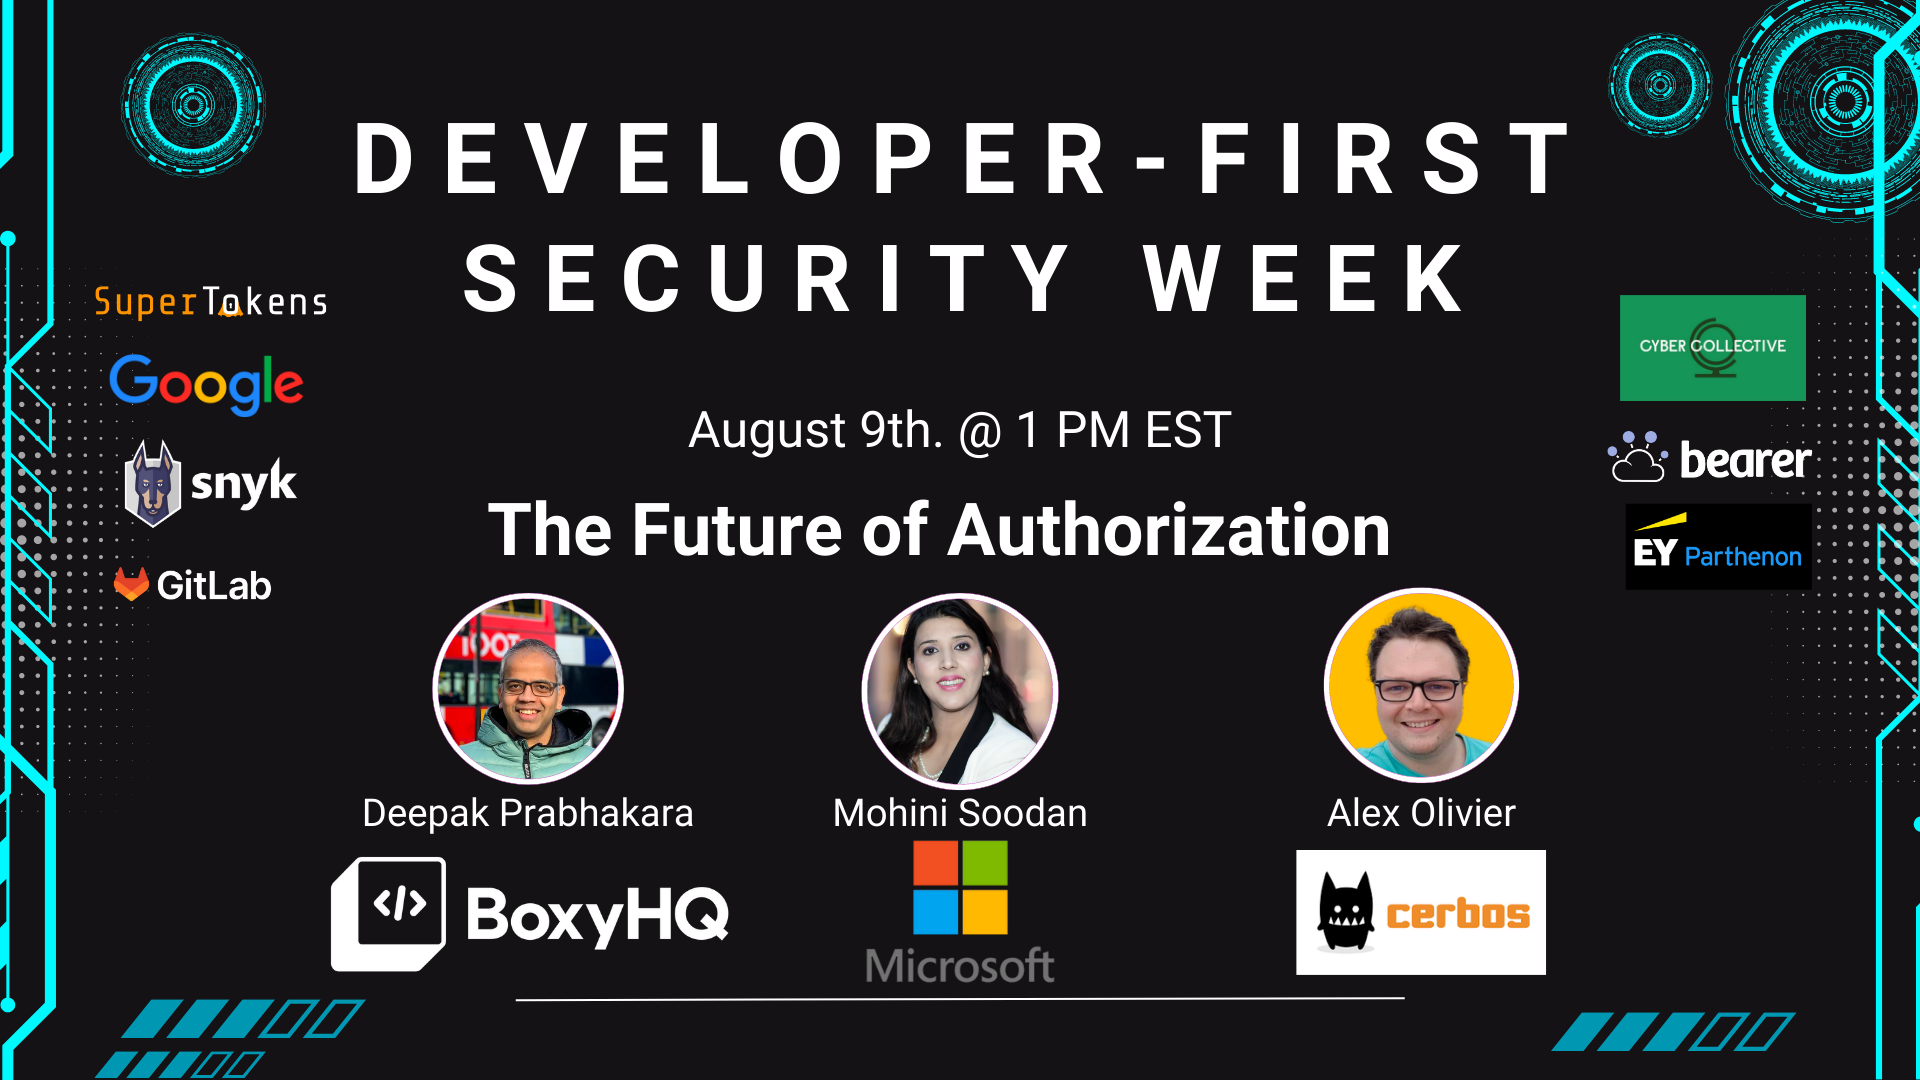
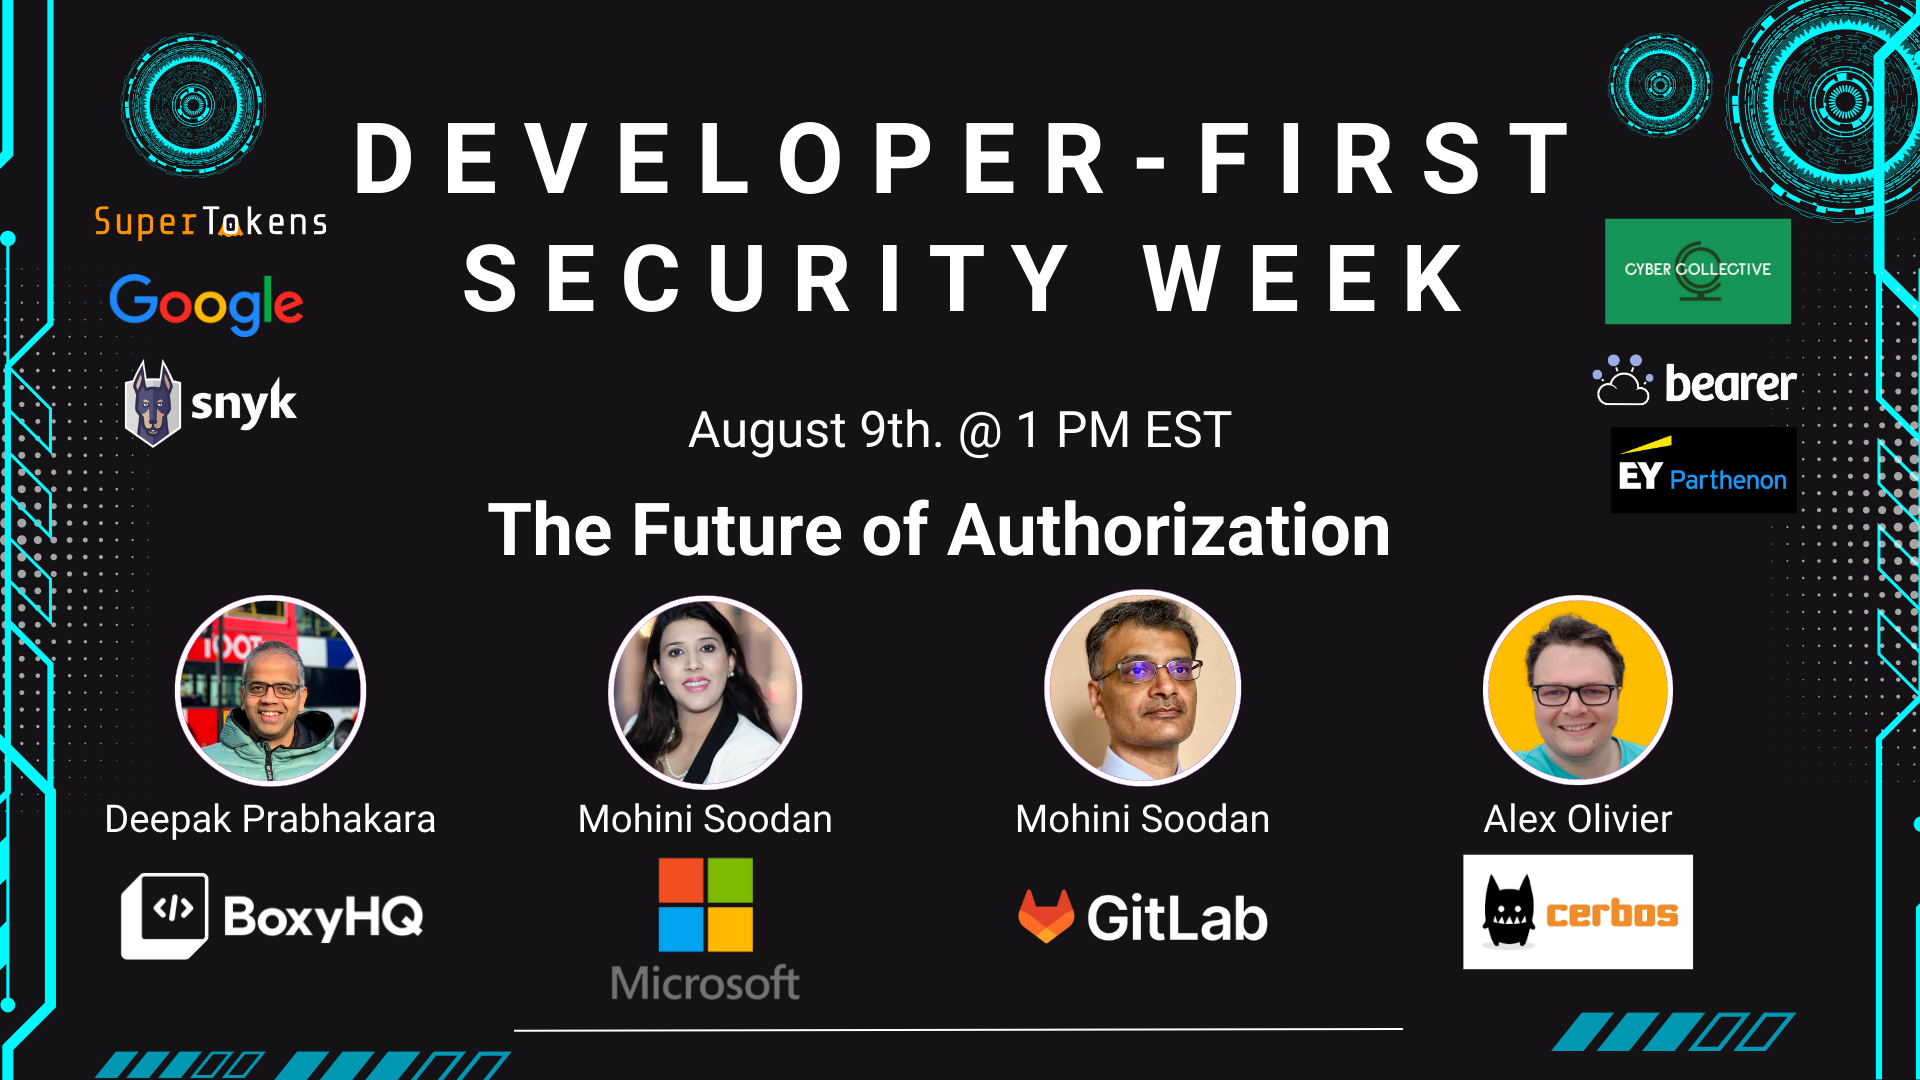
update title flyer and event pages

diff --git a/blog/2023-8-4-the-developer-first-security-week-a-paradigm-shift-in-prioritizing-code-security.md b/blog/2023-8-4-the-developer-first-security-week-a-paradigm-shift-in-prioritizing-code-security.md
@@ -12,7 +12,7 @@ tags_disabled:
     open-source,
     developerfirst,
   ]
-image: /img/blog/developer-first-security-week-schedule.png
+image: /img/blog/DevFirstSecWeekFlyer.png
 authors:
   - name: Sama - Carlos Samame
     title: Co-founder & COO @BoxyHQ
@@ -64,7 +64,7 @@ Date: 8/8/2023 - 1:00 PM EST
 
 Date: 8/9/2023 - 12:30 PM EST
 
-![Keynote Talk](/img/blog/speaker-card-sameer-kamani.png)
+![Keynote Talk](/img/blog/speaker-card-mohini-soodan-keynote.png)
 
 #### Panel: The Future of Authorization
 
